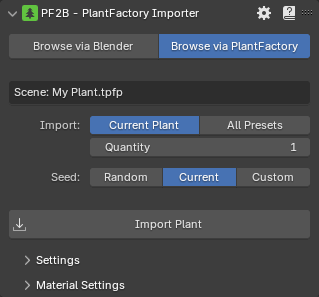
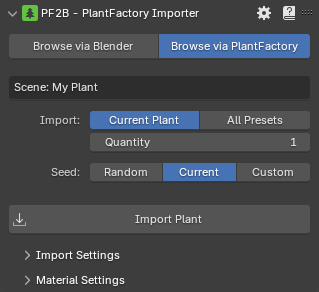
misc

diff --git a/docs/workflow/browse_via_plantfactory.md b/docs/workflow/browse_via_plantfactory.md
@@ -2,14 +2,32 @@
 
 In this mode, PF2B connects Blender to a running instance of PlantFactory, enabling you to work on plant designs in PlantFactory and seamlessly import them into Blender for testing or use without needing to close PlantFactory.
 
-=== "Not connected"
-    ![Browse via PlantFactory](../images/browse-via-plantfactory_bridge-disconnected.webp){ .img-box align=left }
-=== "Connected"
-    ![Browse via PlantFactory](../images/browse-via-plantfactory_bridge-connected.webp){ .img-box align=left }
+![Browse via PlantFactory](../images/browse-via-plantfactory_bridge-disconnected_cropped.webp){ .img-box align=left }
 
-##### Settings
+- **Start Bridge**: launch the PF2B Bridge along with PlantFactory that lets you import plants from PlantFactory.
 
-- Click on the `Start Bridge` button to launch the PF2B Bridge along with PlantFactory and keep it running in the background
+<div style="clear:both"></div>
+
+Once the bridge has started, the interface will look like this:
+
+
+
+![Browse via PlantFactory](../images/browse-via-plantfactory_bridge-connected.webp){ .img-box align=left }
+
+##### General Settings
+
+At the top, the scene or plant name is displayed (shown as `My Plant` in the example).
+
+- **Import**:
+    - **Current Plant**
+    - **All Presets**
+    - **Quantity**
+- **Seed**:
+    - **Random**: Generates a new seed for the import. *NOTE: this updates the seed of your current plant.*
+    - **Current**: Keeps the current seed of your plant
+    - **Custom**
+- :blender_icon_import: **Import Plant**: Starts importing the selected plant.
+
 <!-- - **Batch Import Options**:
   - **Randomized Imports**: PF2B can generate multiple versions of the same plant, each with a unique random seed, for added variety.
   - **Preset Variants**: If the selected plant has multiple preset variations, you can choose to import all available presets at once. -->
@@ -18,6 +36,8 @@ In this mode, PF2B connects Blender to a running instance of PlantFactory, enabl
 
 
 #### Bridge
+
+Below the main PF2B panel is the Bridge panel, which displays information about the bridge status.
 
 === "Connected"
     ![Bridge](../images/bridge_connected.webp){ .img-box }

diff --git a/docs/getting_started.md b/docs/getting_started.md
@@ -38,7 +38,7 @@ PF2B is located in the N-Panel inside the `3D Viewport` under a tab named `PF2B`
 
 ![Addon Location](images/addon-location.webp){ .img-box align=left }
 
-Every feature includes hover-over tooltips, providing quick and detailed explanations directly within the add-on interface, making it easy to understand functionality without needing to leave the workspace. Some areas also have an extra :octicons-question-24: icon, which opens a popup with additional information and a link to the relevant section of the documentation for further instructions.
+Every feature includes hover-over tooltips, providing quick and detailed explanations directly within the add-on interface, making it easy to understand functionality without needing to leave the workspace.
 
 For more comprehensive guidance, you can access the full documentation by clicking the :blender_icon_help:icon in the main panel.
 
@@ -53,10 +53,10 @@ For more comprehensive guidance, you can access the full documentation by clicki
 
 To get the most out of the PF2B addon and browse plants directly within the addon, you need to import the thumbnail and presets cache.
 
-1. Download the cache file provided alongside the addon from the store where you purchased it.
+1. Download the cache files provided alongside the addon from the store where you purchased it.
 - Inside Blender, navigate to the addon preferences by clicking the :blender_icon_preferences: icon in the PF2B panel. Alternatively, go to `Edit > Preferences`, find PF2B under the Add-ons tab.
 - In the `Plant Library` tab, click the "**Import Cache**" button.
-- Locate and select the downloaded cache file, which should be named `PF2B Cache Complete.pf2b` or something similar.
+- Locate and select the downloaded cache file, which should be named `PF2B Cache Base.pf2b` or something similar.
 - Once the import is complete, click the 'Verify' button on all caches to ensure everything is properly cached.
 - Now you're ready to start using the addon!
 

diff --git a/docs/workflow/browse_via_blender.md b/docs/workflow/browse_via_blender.md
@@ -2,7 +2,7 @@
 
 ![Browse via Blender](../images/browse-via-blender-panel.webp){ .img-box align=left }
 
-##### Settings
+##### General Settings
 
 - **Library**:
     - PlantCatalog
@@ -26,8 +26,6 @@
 
 <div style="clear:both"></div>
 
----
-
 - **Import**:
     - **Current Preset**
     - **All Presets**
@@ -35,10 +33,7 @@
 - **Seed**:
     - **Random**
     - **Custom**
-
----
-
-- **Import Plant**: Starts importing the selected plant(s).
+- :blender_icon_import: **Import Plant**: Starts importing the selected plant(s).
 - :octicons-stack-24:: **Use import Queue**, see the next section for details.
 
 
@@ -65,7 +60,7 @@ The queue system lets you add multiple plants to a queue, which you can then imp
 
 ### Gallery View
 
-In this view, you can see all available plants and presets.
+In this view, you can see all available plants and presets. To exit the gallery view, click the `X` in the top right corner or press `Escape` on your keyboard.
 
 !!! info2 inline "Plants"
     ![Plant Gallery](../images/gallery_plants.webp){ .img-box .on-glb align=left }

diff --git a/docs/preferences/general.md b/docs/preferences/general.md
@@ -9,7 +9,6 @@
     - Never
 - **Plant Thumbnail Size**: Adjust the size of the plant & preset thumbnails in the main Panel. This does not affect the thumbnail size in the Gallery view as it has its own setting directly available when browsing.
 - **Use Preset Thumbnails**: Enable to display presets with thumbnails. If thumbnail browsing impacts performance, disable this option to show presets as a simple list.
-- **Show Wikipedia Link**: Displays a link to search for the plant's name on Wikipedia for more details, located in the bottom right corner of the plant thumbnail.
 
 ## PlantFactory Location
 
